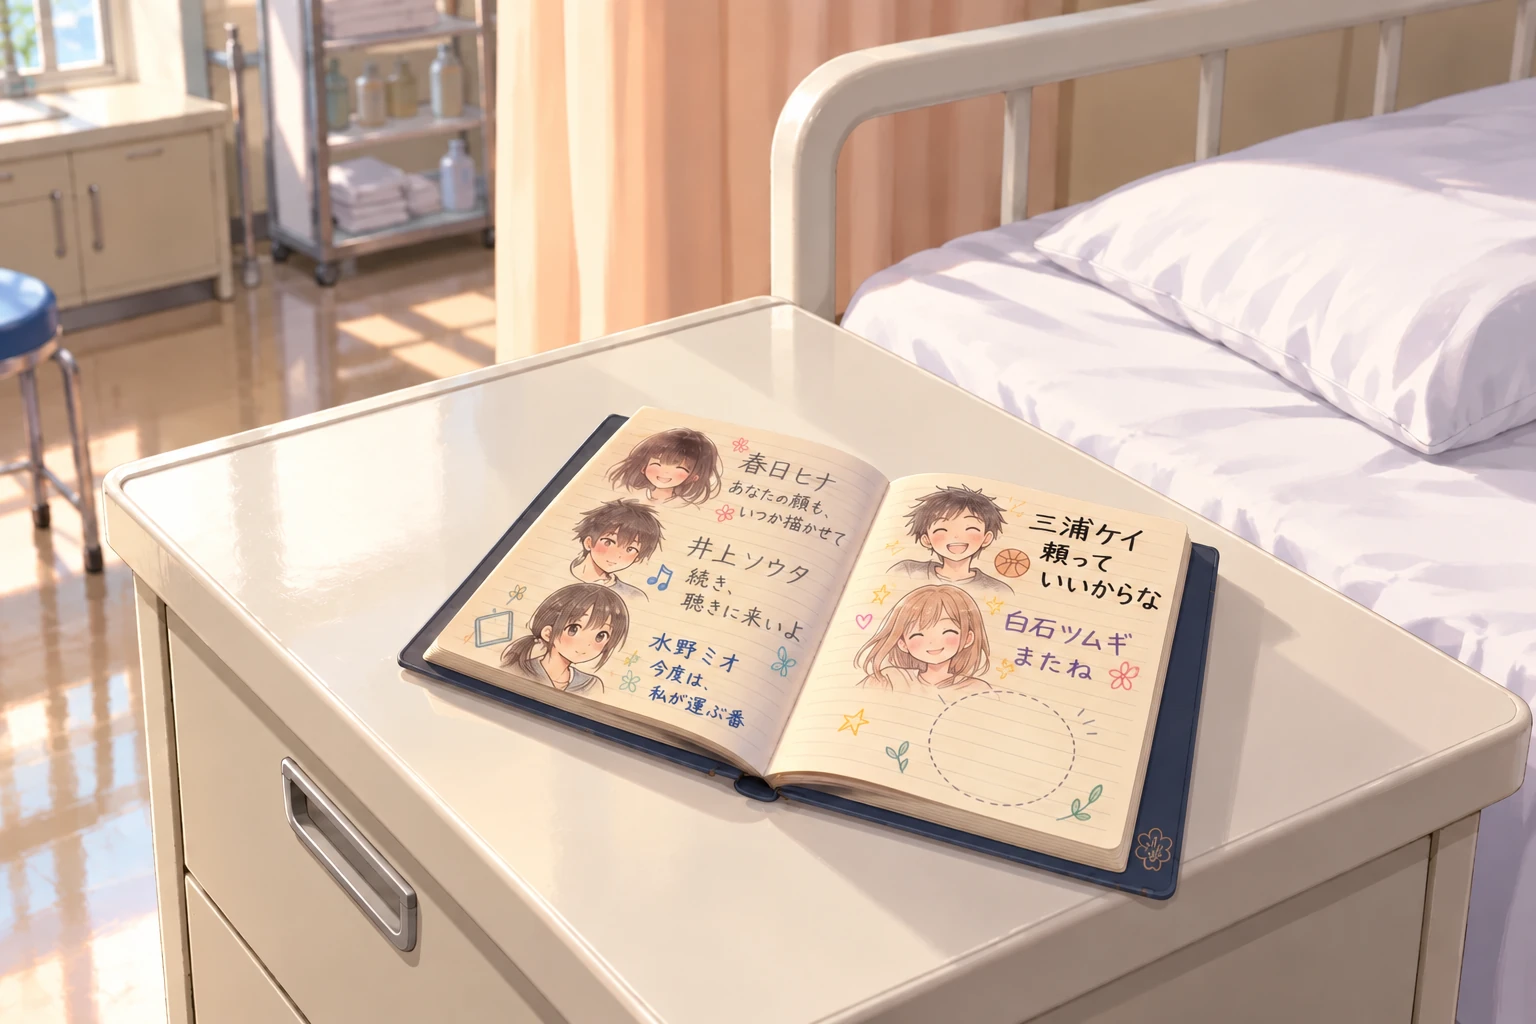
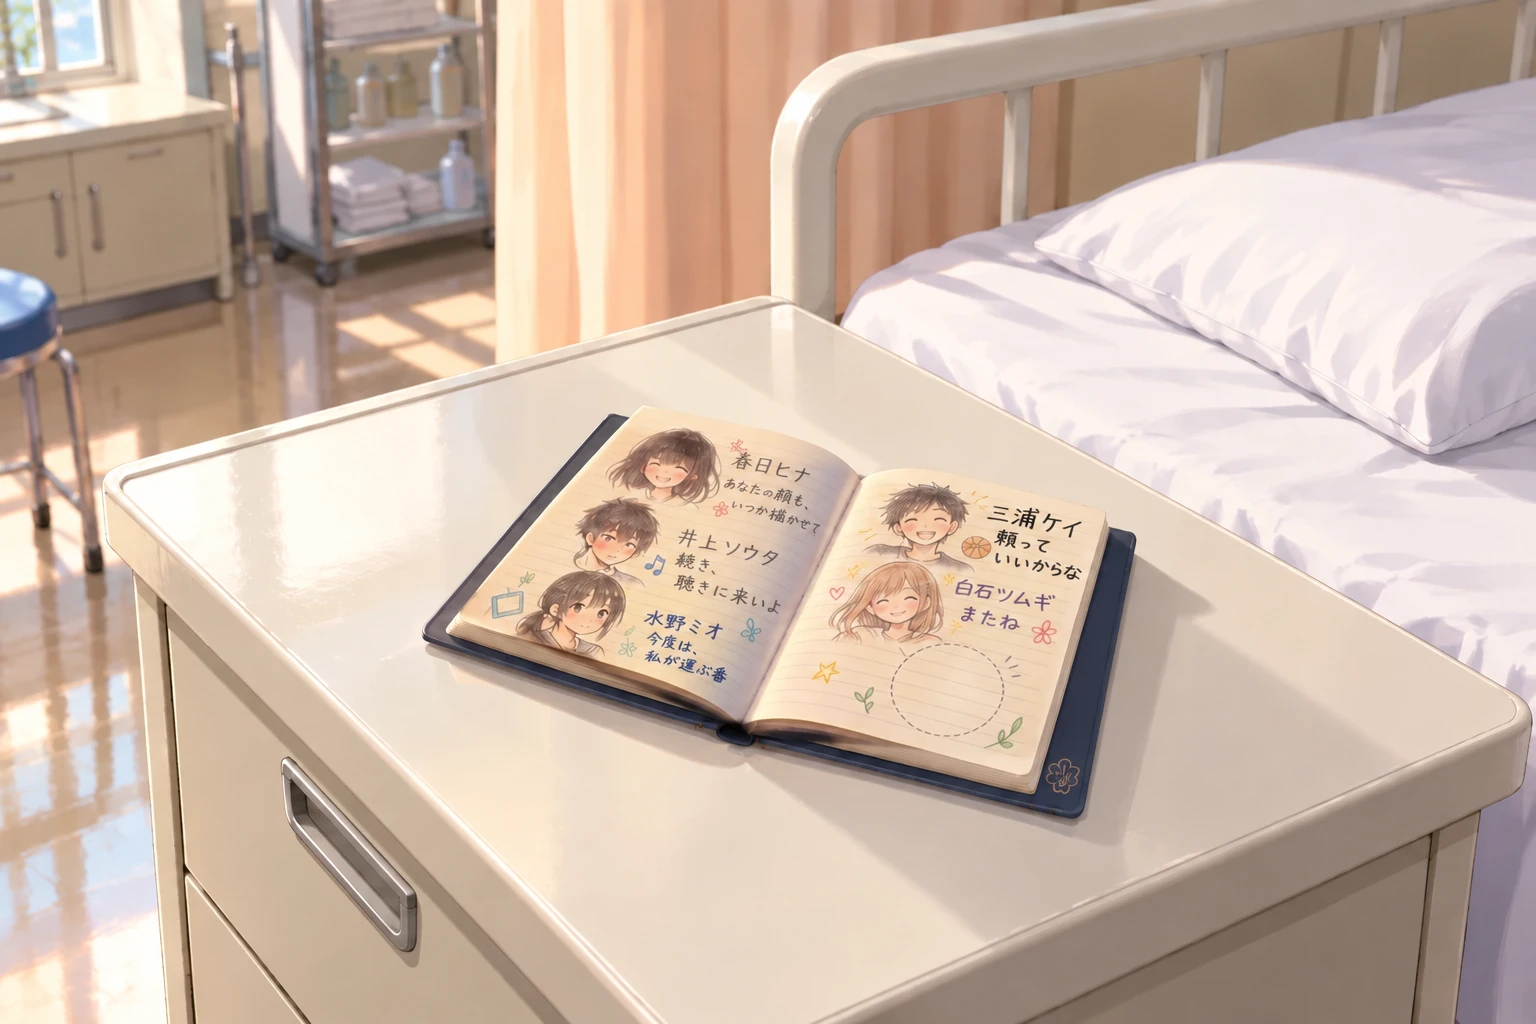
朝の手帳を元の大きさで描き直し／言葉の雨に入る暗転で文を消す

Changed region(s): [[0.25, 0.4375, 0.8438, 0.9375]]

diff --git a/index.html b/index.html
@@ -2591,6 +2591,7 @@
   // 言葉の雨：短い言葉は小さく散らして重ね、長い言葉は一つずつはっきり読ませる。崩した言葉はにじませて読めなくする。画面を押すと早く進む
   async function wordRain() {
     const box = fxLayer('rain');
+    spk.hidden = true; txt.textContent = ''; more.hidden = true;   // 言葉の雨に切り替わるとき、前の文を消す
     // 短い言葉は、届いた言葉（ほかの人から言われた言葉）から切り出したものだけ。どれも否定。自分で自分に向けた言葉は、もう一人の自分の台詞に取っておく
     const shorts = ['きもい', 'バカ', '邪魔', '使えない', '気持ち悪い', '役立たず', '汚い', '臭い', 'いらない', '無理', 'できない', '手遅れ', '最低',
                     '出て行け', '甘えるな', 'ヘラヘラ', '泣くな', '通用しない', 'みんな嫌ってる', '普通でしょ', '弱虫', '情けない', '惨め', 'のろま', '出来損ない', '帰れ', '帰って'];
@@ -2700,7 +2701,6 @@
     windSE(false, 3); await darkSwap('rooftop_rain'); rainSE(true); bgm('roofCore', 4);
     await say(['目を開けると、雨だった。', '大粒の雨が、屋上を打っている。……いつから降っていたのか、わからない。', '手帳の白い行が、雨に濡れていく。']);
     await wordRain();
-    spk.hidden = true; txt.textContent = '';   // 言葉の雨のあとは、前の文を残さない
     await lateWords([['苦しいのは、あなただけじゃないよ', 'sei'], ['いつもヘラヘラしてるのに', 'neg'], ['簡単に泣かない方がいいよ', 'sei'], ['一時の感情に、流されないようにね', 'sei'],
                      ['考えすぎだよ', 'nag'], ['かわいそう', 'nag'], ['もう、頑張らなくていいよ', 'nag'], ['時間が、解決してくれるんじゃないかな', 'nag'], ['昔の私に似てる。……でも大丈夫。今は、変われたから', 'nag']]);
     await say(['頭に、誰かの手が置かれる感触がした。']);
